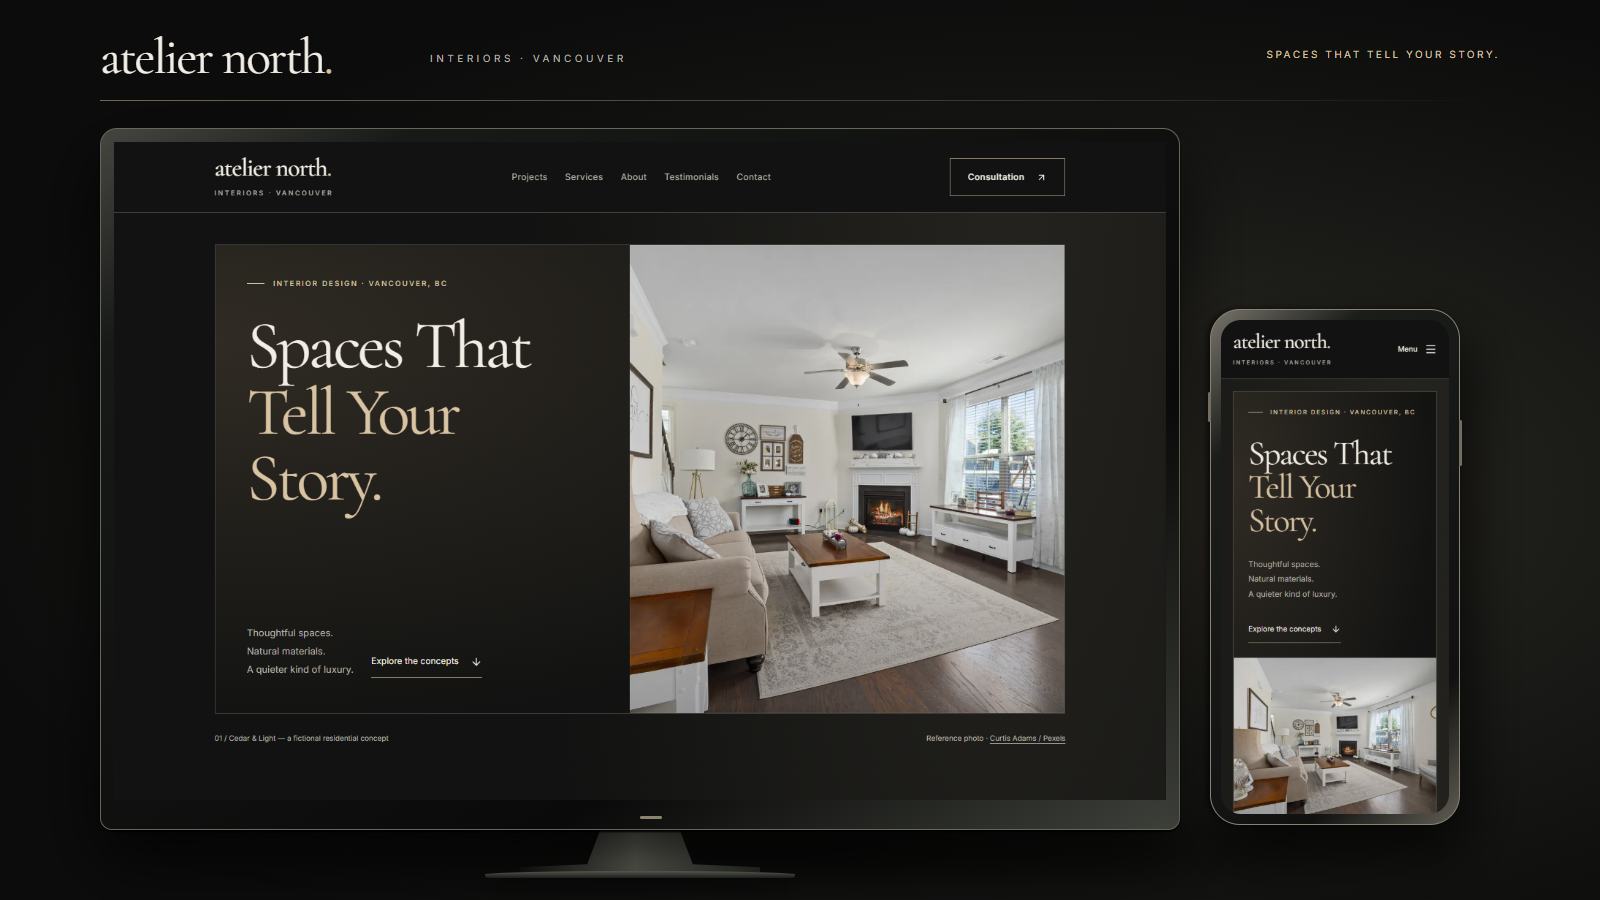
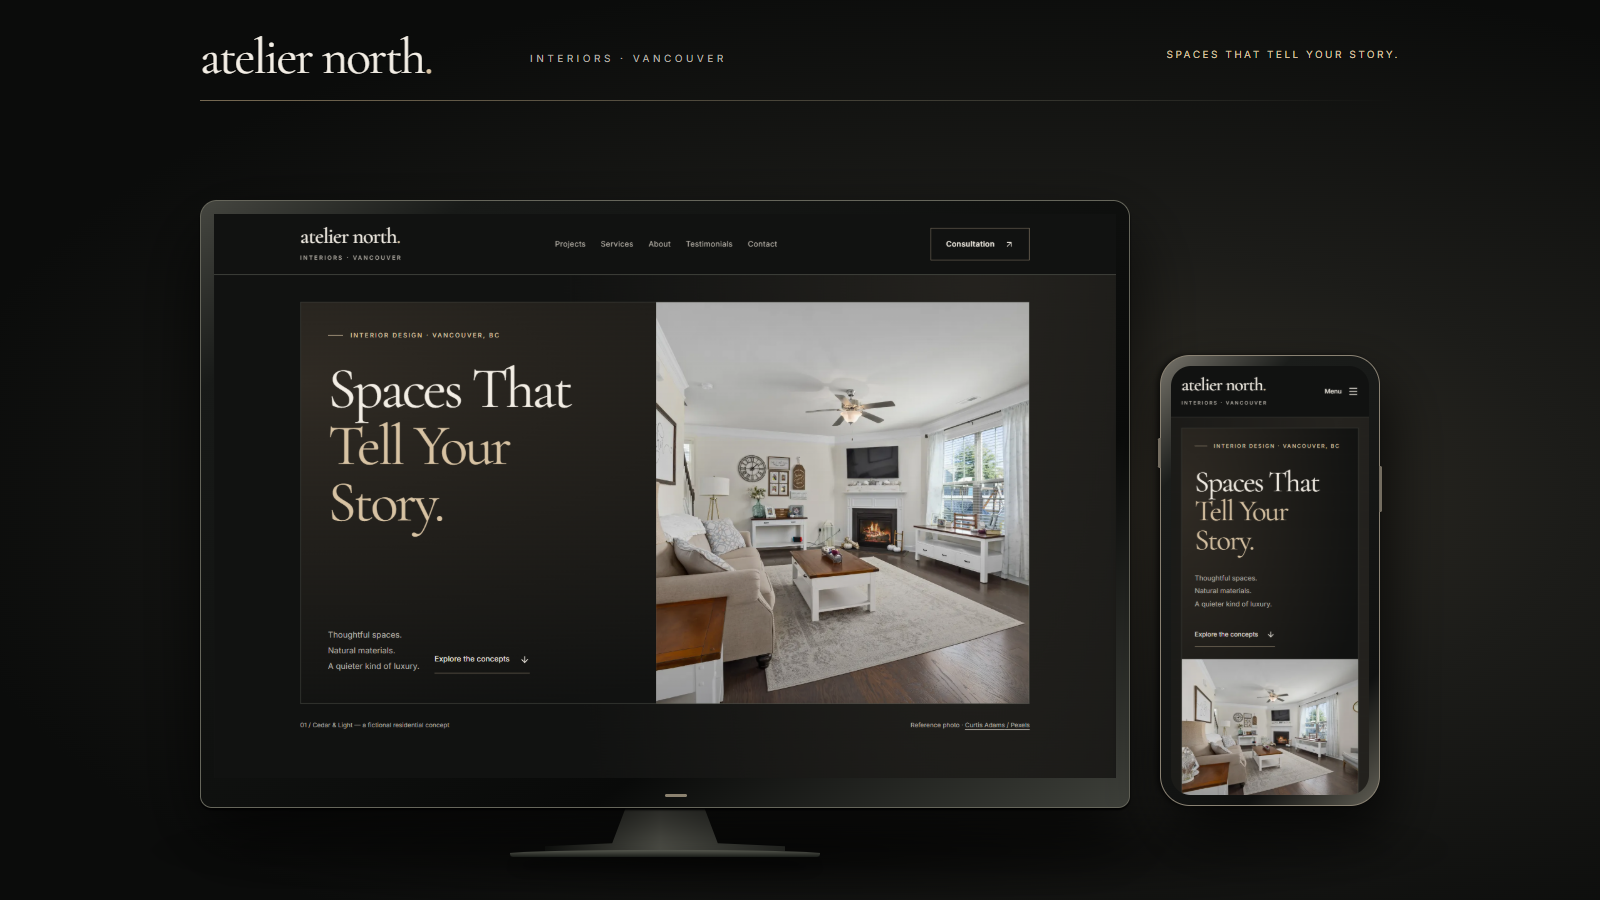
fix: refine portfolio cover framing for mobile cards

diff --git a/memory.md b/memory.md
@@ -494,3 +494,10 @@ Node 24.16.0/npm 11.13.0, explicit C:\Program Files\nodejs PATH, project D:\atel
 - Portfolio: https://hematyar-professional-portfolio.vercel.app/projects/atelier-north-interiors. Verified unique entry, exact preserved Atelier text/links, natural image dimensions 1600x900, HTTP 200 and SHA-256 match to the local WebP at both 375/1440, detail navigation/direct refresh, no overflow or page errors. Source Git diff proves exactly one changed cover asset; CMS records and all other source/assets were untouched. Initial public snapshot showed only the immediate source-managed case study; other CMS projects render asynchronously, so that initial snapshot is not a complete CMS inventory.
 - Commands executed: node tmp/capture-cover.cjs; node tmp/compose-cover.cjs; node --test tmp/portfolio-integration/src/data/atelierNorth.test.mjs (4/4 passed); npm --prefix tmp/portfolio-integration run build (passed, Vite 7.3.7, 1651 modules, 2m 4s); node tmp/verify-portfolio-cover.cjs (375/1440 passed, exact served cover hash). No application dependency or manifest changes.
 - Only requested screenshot/cover assets, capture provenance and this handoff log are included in Atelier's release. No Atelier application code change; existing SEO, demo-only forms, noindex configuration and dark design preserved. Final normal asset commit/push hash and synchronization are reported after execution.
+
+### Final mobile-safe cover revision
+- Final visual check found the existing portfolio mobile cards crop 16:9 images to a taller viewport. Refined only the original CSS device composition to keep both full devices and the primary brand lockup inside the central safe area; screenshots and their aspect ratios remain unchanged. No portfolio CSS or project content changes.
+- Final assets remain 1600x900: PNG 659,176 bytes; WebP 60,150 bytes, SHA-256 713838d7b7da3ac5616c449d36150da2cf0b15177f15a0cbc332086efca49054. These supersede the first composition sizes/hash above. Updated docs/portfolio/README.md accordingly.
+- Final related portfolio commit 69ebe795e79f09e74dd54311497ebe343332ad5a (fix: keep Atelier cover devices visible in mobile cards), normal push succeeded. Existing automatic deployment dpl_AFFbefaepJUHzgcKRasz9tmLgzJV READY for that exact commit; only the same cover asset changed.
+- Final live verification at 375/1440 passed: served cover byte hash equals the final WebP, natural size 1600x900, unique Atelier entry, detail page/direct refresh, preserved live/source links, no overflow or page errors. Compared all four fully loaded project records, including other projects, with the settled snapshot; records and cover URL strings unchanged. The only changed served asset is Atelier's cover.
+- An optional network-idle wait timed out because existing background CMS requests continue; retried against the actual visible project list and passed. No authentication bypass or backend changes. Final asset commit/push to Atelier follows this verified record. No unresolved cover-update blocker.

diff --git a/docs/portfolio/README.md b/docs/portfolio/README.md
@@ -6,8 +6,10 @@ The 1600 × 900 PNG and optimized WebP combine real production screenshots insid
 - Captures: ../screenshots/desktop-home.png (1440 × 900), mobile-home.png (375 × 812), desktop-projects.png (1440 × 1100), mobile-projects.png (375 × 1200).
 - Capture manifest: ../screenshots/capture-manifest.json records URLs, dimensions, timestamps and verified dark-theme state.
 - Cover: atelier-north-interiors-cover.png and atelier-north-interiors-cover.webp, both 1600 × 900.
-- PNG: 740,232 bytes. WebP: 73,166 bytes (quality 90).
+- PNG: 659,176 bytes. WebP: 60,150 bytes (quality 90).
 - Composition: near-black background, original CSS hardware frames/shadows, restrained champagne accents, existing local Cormorant Garamond/Inter fonts and actual brand/tagline.
 - Incorporated photography remains illustrative and credited under ../../IMAGE_CREDITS.md; font licences are in ../../public/fonts. This does not represent completed client commissions or real customer devices.
 
 The personal portfolio already references /projects/atelier-north-interiors.webp. Publishing replaces that one asset in the existing supported source-managed project workflow; project records, copy, links, slug and all other project assets remain untouched.
+
+Both devices and the primary brand lockup sit within a central safe area so the existing taller mobile portfolio cards can crop the outer background without cutting off the hardware. Screenshots remain proportionally scaled and unchanged.
